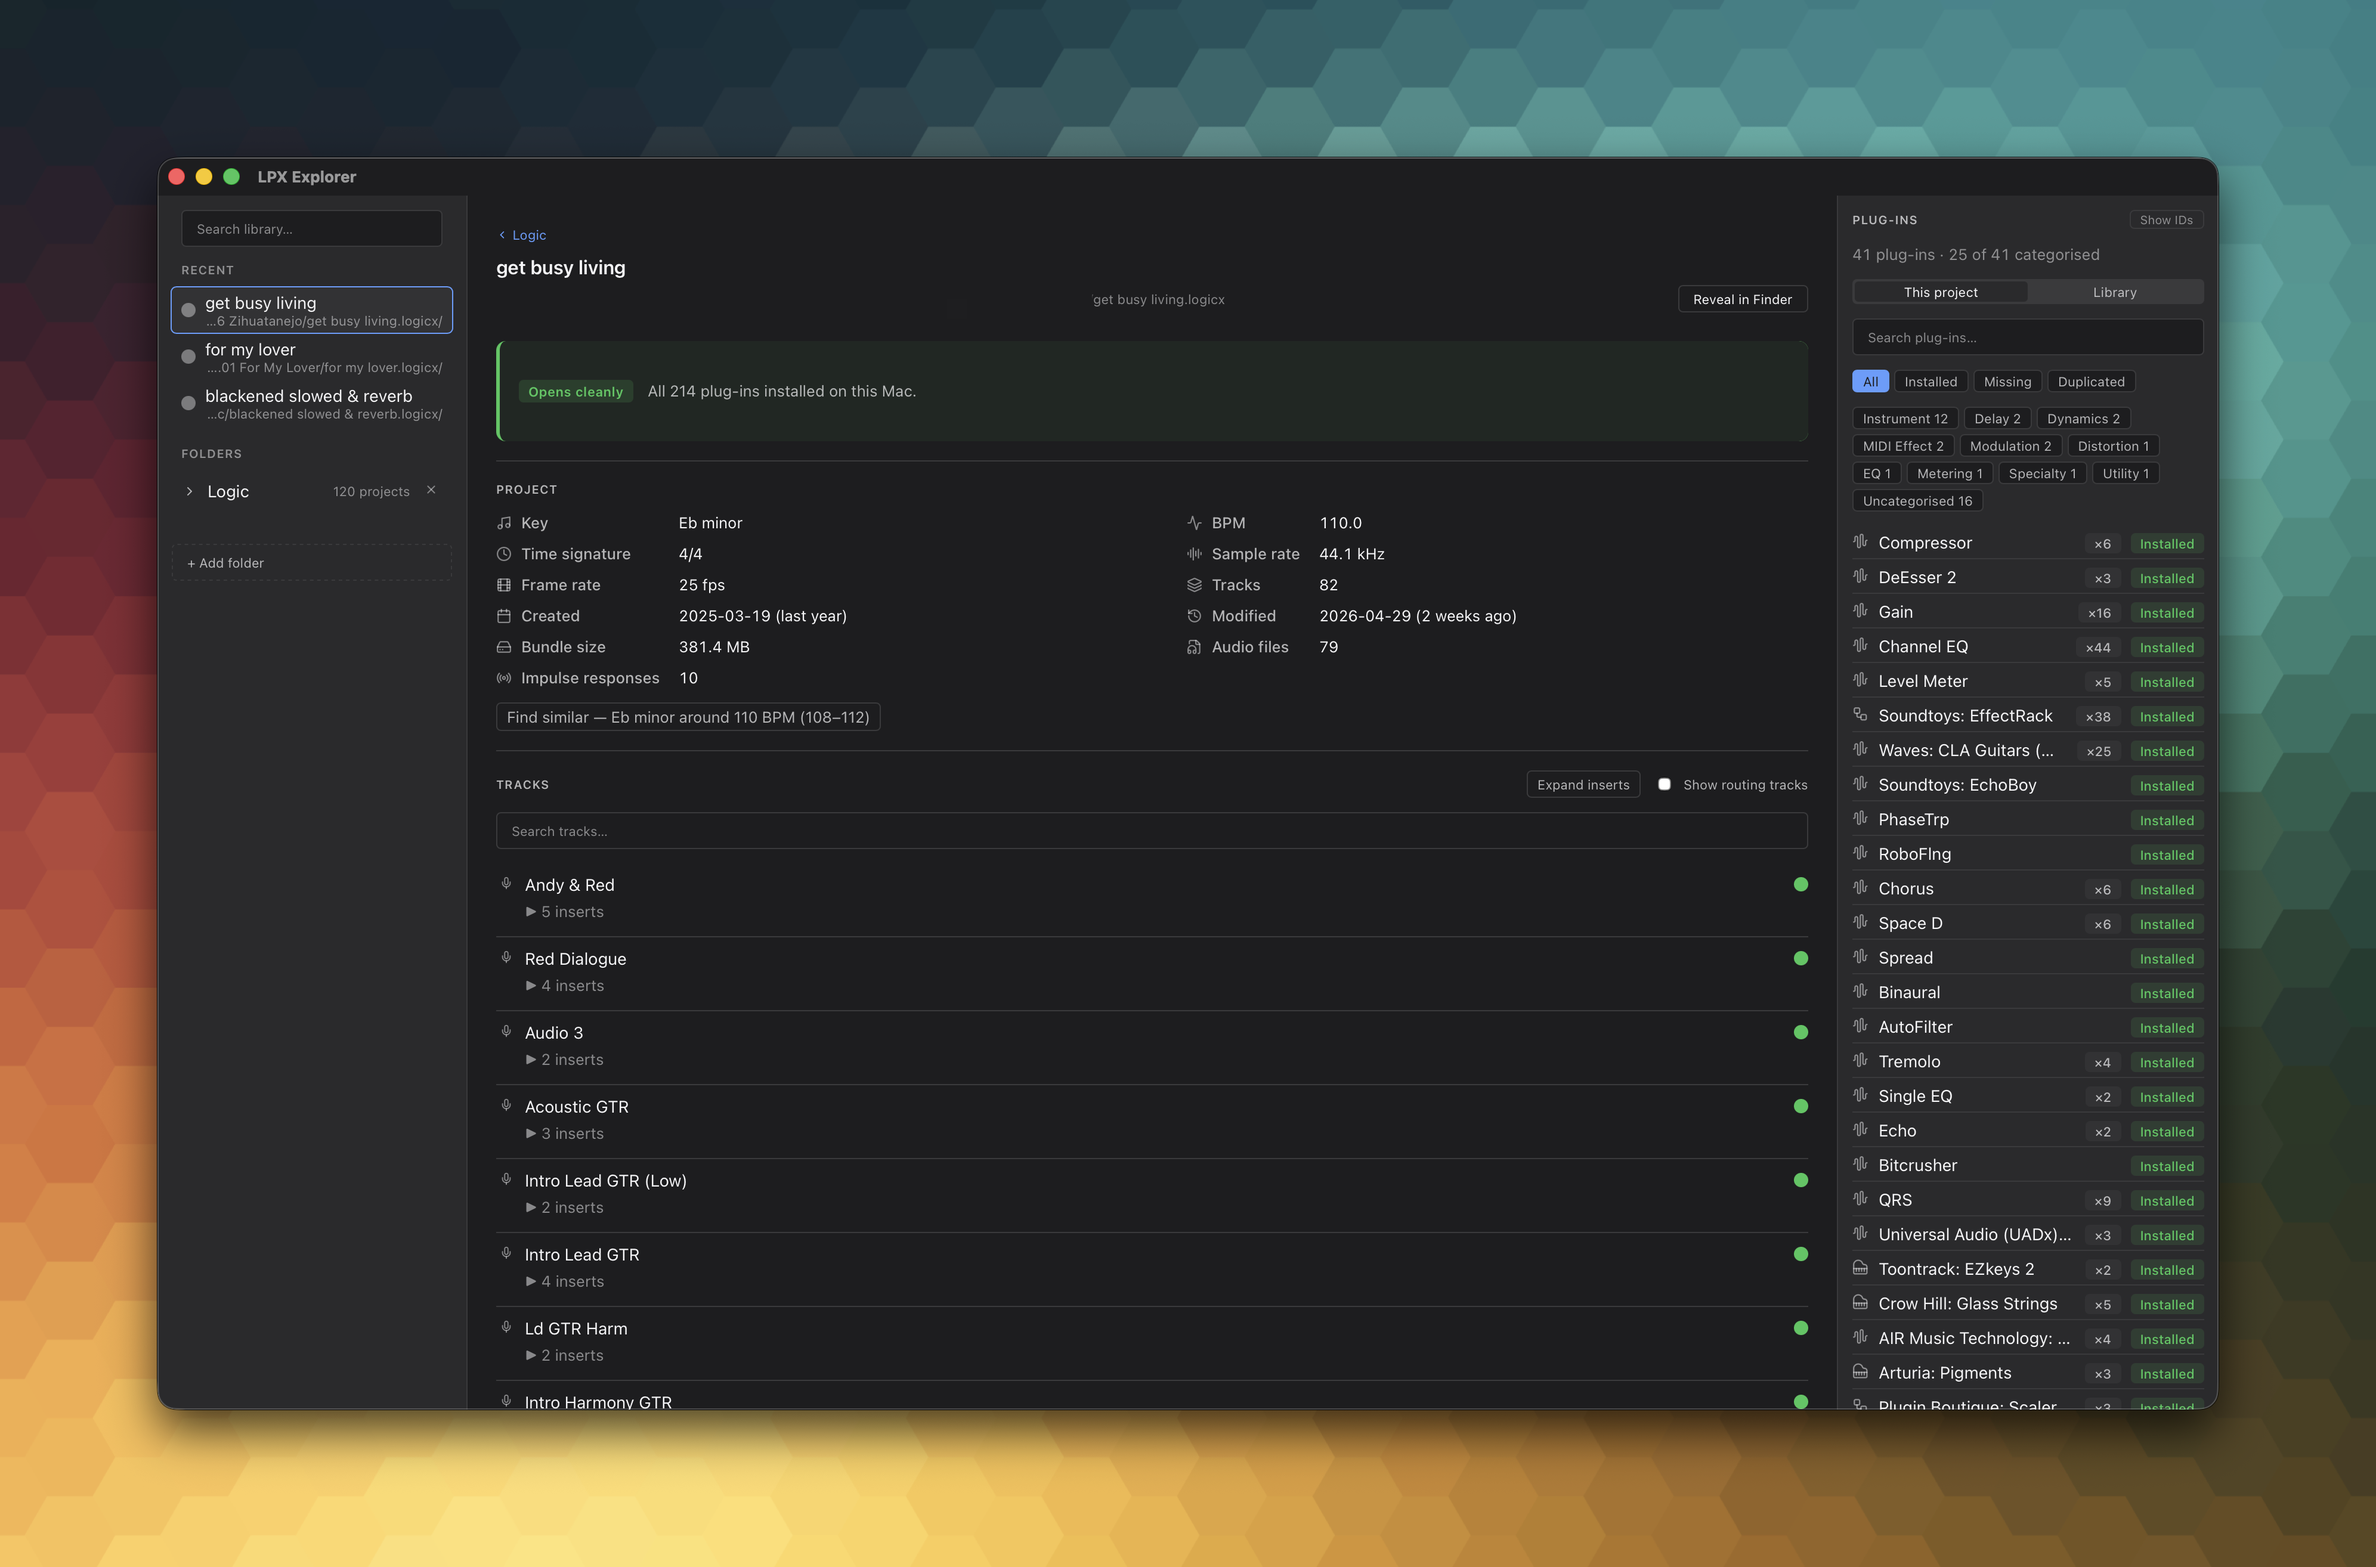
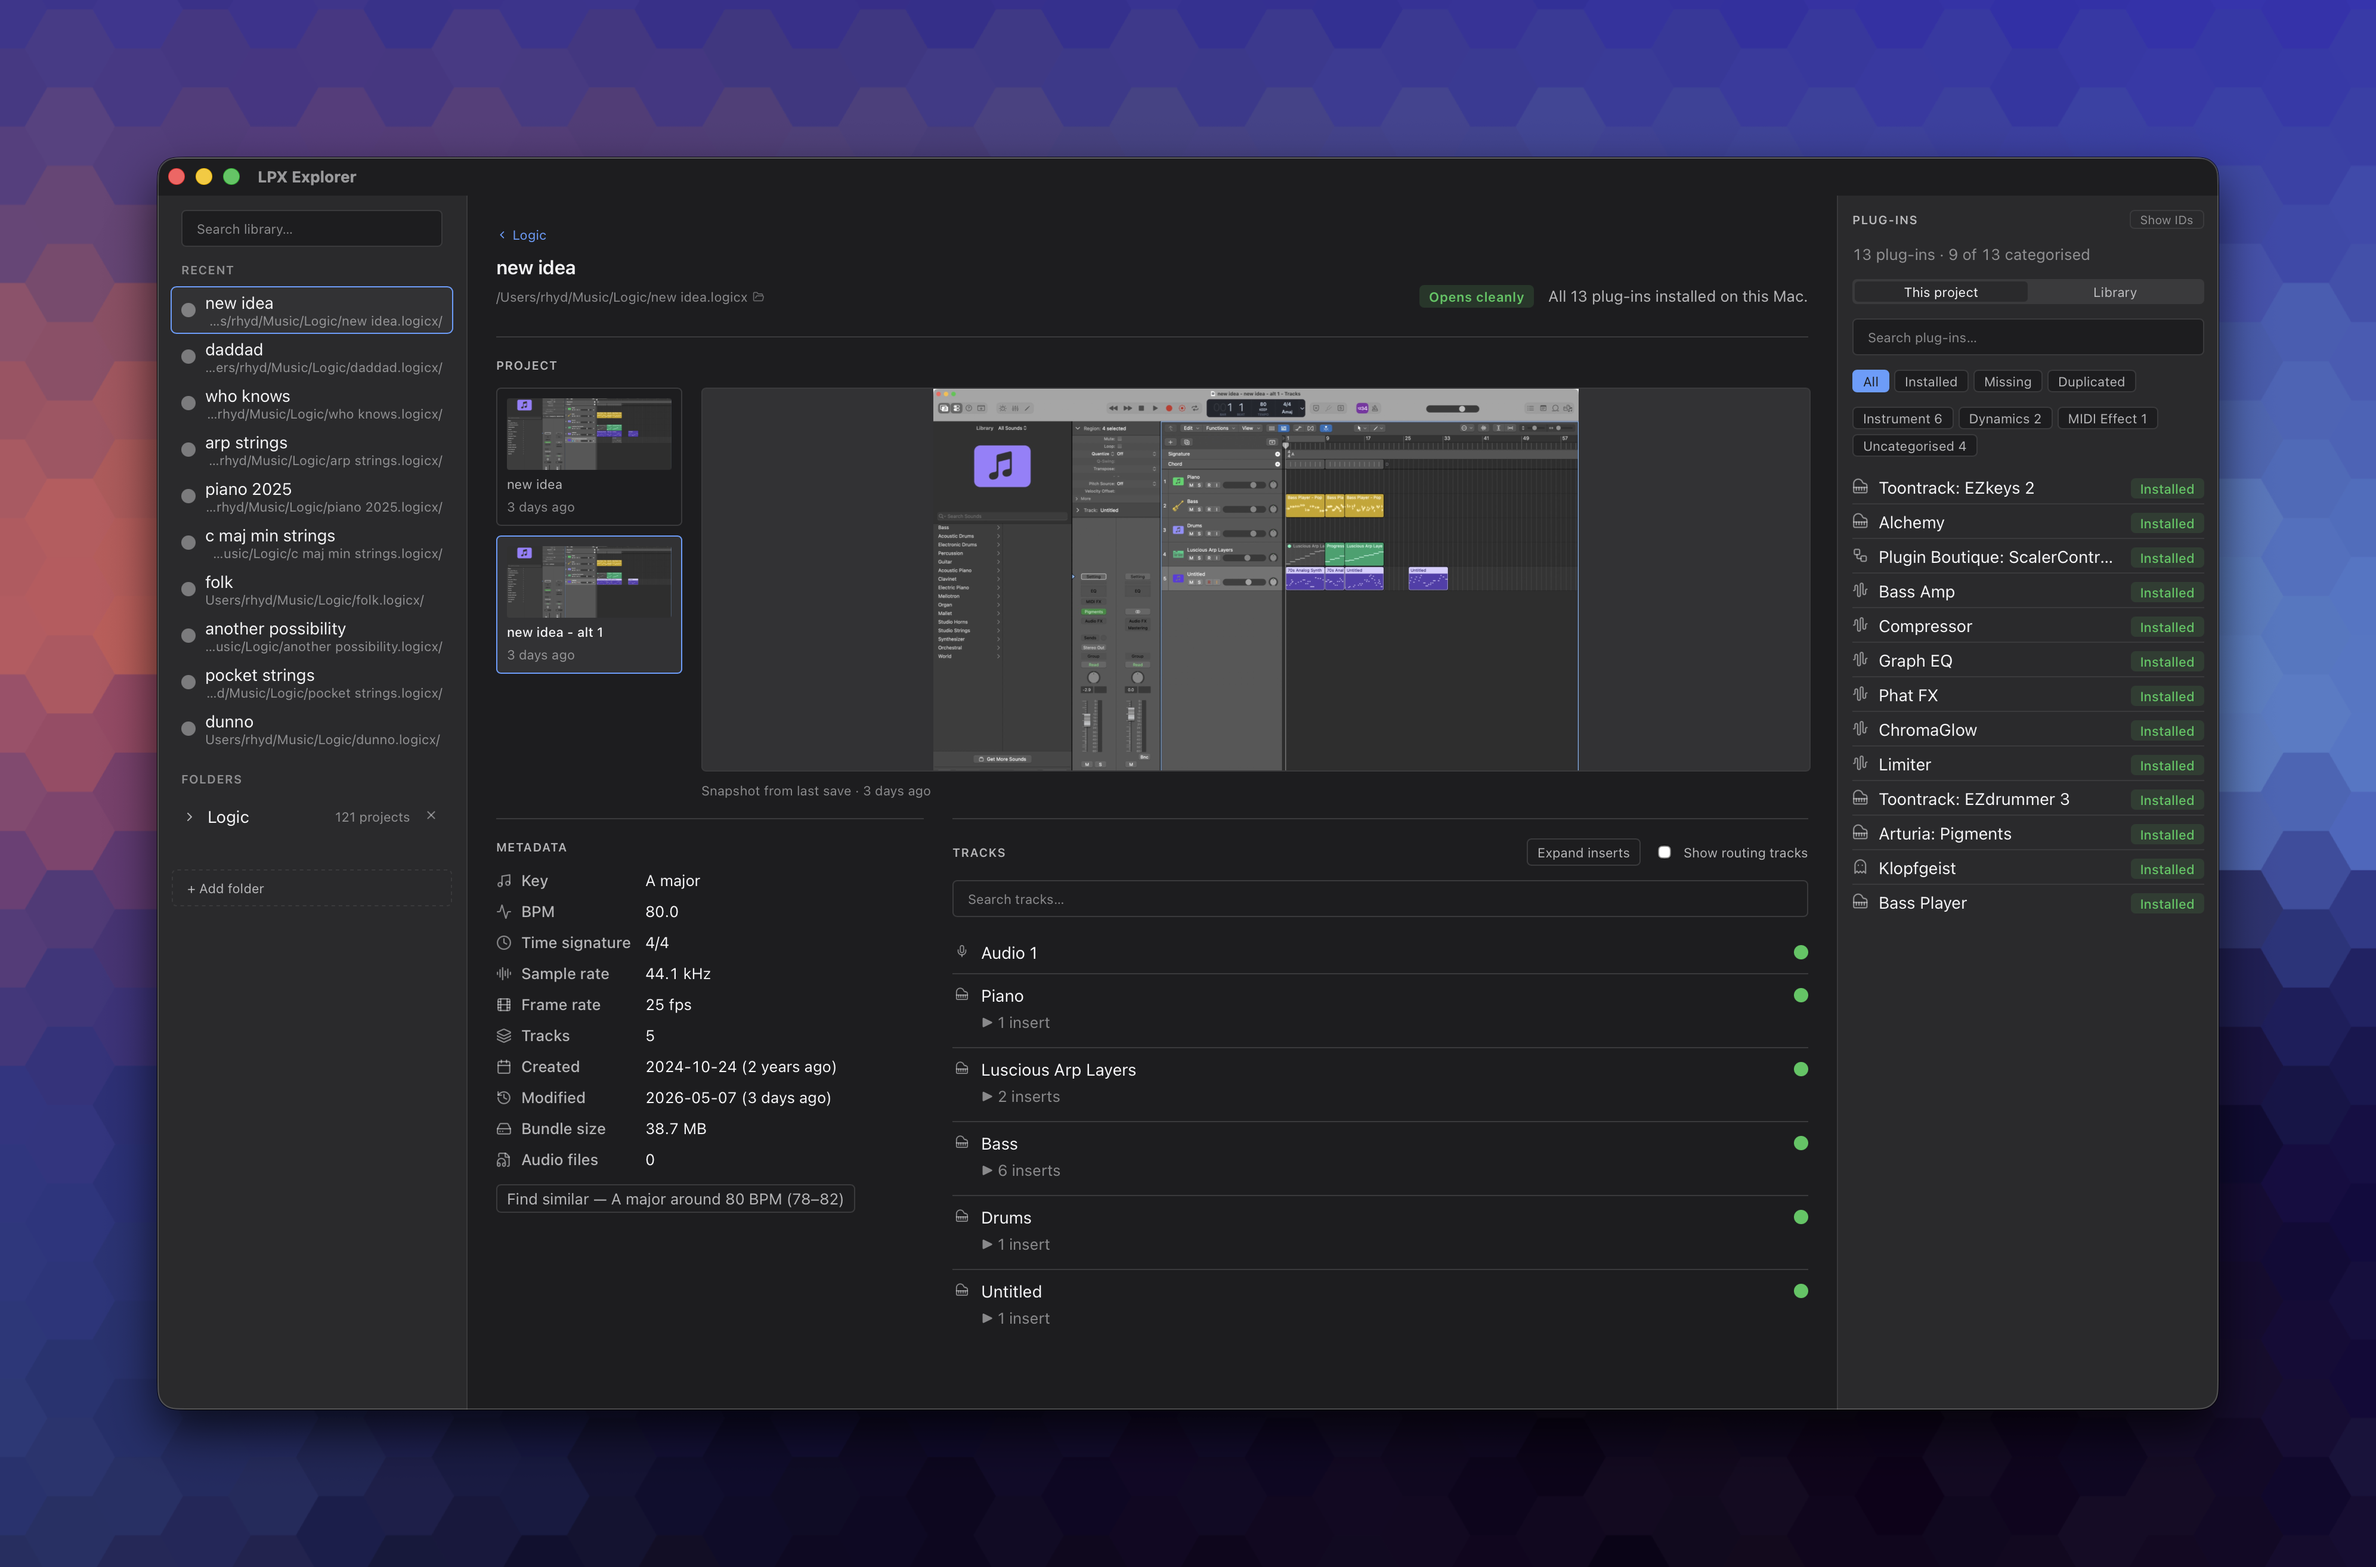
docs: updated README

diff --git a/README.md b/README.md
@@ -1,49 +1,72 @@
 # lpx-explorer
 
-Read-only macOS app to inspect Logic Pro `.logicx` project bundles. See & search plugin, track and metadata from a macOS desktop app (Tauri 2 + React 19 + TypeScript + Rust).
+Read-only macOS app for inspecting Logic Pro `.logicx` project bundles. See and search plug-ins, tracks, and project metadata without launching Logic. Built with Tauri 2 + React 19 + TypeScript + Rust.
 
-The headline question: **"Will this project open cleanly on this Mac?"** LPX Explorer answers it by parsing the undocumented binary `ProjectData` file inside a `.logicx` bundle and cross-referencing the Audio Unit plug-ins it references against the AUs installed on your machine — without launching Logic and without touching a byte of the bundle.
+## Why this exists
 
-![](./screenshot.png)
+I have hundreds of Logic Pro projects on disk, many years old, with titles like "new idea", "new idea 2", and "3 tracks copy". Opening each one in Logic to remember what's inside takes an age — Logic is slow to launch, slower to load a project, and I can't easily browse across them. Another recurring problem: not every plug-in I've used is still installed, so some projects open with missing instruments and I don't find out until I'm already there.
+
+LPX Explorer answers two questions: **what's in this project?** and **will it open cleanly on this Mac?** by parsing the undocumented files (e.g. `ProjectData`) inside a `.logicx` bundle and cross-referencing the Audio Unit plug-ins within against the AUs installed on your machine, without launching Logic and without touching a byte of the bundle.
+
+![Screenshot of the LPX Explorer inspector view: compatibility verdict band, project metadata, track list with insert pills, and plug-in rail with install-status badges.](./screenshot.png)
+
+## Read-only by construction
+
+`.logicx` projects are irreplaceable user work. LPX Explorer is structurally incapable of writing to one:
+
+- The Rust parser crate has a bytes-only API — `find_aus(&[u8])`, `find_tracks(&[u8])`, etc. It cannot open a file.
+- The Tauri command layer reads bytes once and routes them through the parser.
+- An integration test (`src-tauri/tests/readonly_invariant.rs`) snapshots SHA-256 + mtime around every parse path and asserts no byte changed.
+- CI fails if the invariant fails. It is gated, not aspirational.
+
+However...
 
 > [!WARNING]
-> **Use at your own risk.** `LPX Explorer` parses the undocumented `.logicx` binary format that Apple may change at any time. It is strictly read-only — there is a SHA-256 invariant test that fails the build if any byte of a project is ever modified — but you are still pointing it at irreplaceable creative work. Always keep backups. The author accepts no liability for project corruption, data loss, or anything else that might go wrong.
+> ⚠ **Use at your own risk.** LPX Explorer parses an undocumented binary format that Apple may change at any time. The read-only invariant covers the parser, but you are still pointing it at irreplaceable creative work. Always keep backups. The author accepts no liability for project corruption, data loss, or anything else that might go wrong.
 
 ## What it does
 
-**Pick a project, see the verdict.**
+### Pick a project, see the details
 
 - Compatibility verdict band — `clean` / `warnings` / `will-not-open`, with a CTA that jumps to the first missing plug-in.
+- Screenshot of each alternative (if available)
 - Project metadata — key, BPM, time signature, sample rate, dates, bundle size.
 - Track list — kind (audio / instrument / folder / summing-stack), user-renamed names recovered from region records and the track registry, with expandable insert chains rendered as colour-coded pills (instrument / FX / MIDI).
-- Plug-in rail — every AU referenced by the project, grouped by category, with install-status badges resolved against the local `auval -l` registry. Per-row actions for missing plug-ins (search, copy fingerprint, etc.) and an opt-in mono fingerprint sub-line for triage.
+- Plug-in rail — every AU referenced by the project, grouped by category, with install-status badges resolved against the local Audio Unit registry. Per-row actions for missing plug-ins (search, copy fingerprint) and an opt-in mono fingerprint sub-line for triage.
 
-**Pick a folder, see the library.**
+### Pick a folder, see the library
 
-- Recursive `.logicx` scan with idle-aware progress and per-project parse cache.
+- Recursive scan of each `.logicx` bundle with idle-aware progress and per-project parse cache.
 - Tile grid — name, musical line (key + BPM), counts, size; click to open.
 - Folder rail with search; recent projects and recent folders surface in the native File menu.
 - Plug-in rail flips to library scope — `47 plug-ins · 3 missing across 12 projects` — and each row expands to the contributing project paths.
 
-**System integration.**
+Tested against roughly **[150 projects across ~20 GB]** without trouble.
 
-- Native macOS menu (File / Edit / View / Help) with `Cmd-O` open project, `Cmd-Shift-O` open folder, theme switcher (System / Light / Dark), Open Recent submenus.
-- Drag-and-drop a `.logicx` or a folder onto the window.
-- `Cmd-+` / `Cmd-–` / `Cmd-0` scales the entire UI proportionally.
+### System integration
 
-## Read-only contract
+- Native macOS menu (File / Edit / View / Help) with `⌘O` open project, `⌘⇧O` open folder, theme switcher (System / Light / Dark), Open Recent submenus.
+- Drag and drop a `.logicx` bundle or a folder onto the window.
+- `⌘+` / `⌘-` / `⌘0` scales the UI.
 
-`.logicx` files are irreplaceable user work. The parser is structurally incapable of writing to one:
+## Relationship to `lpx-toolkit`
 
-- The Rust crate's API is bytes-only — `find_aus(&[u8])`, `find_tracks(&[u8])`, etc. — it cannot open a file.
-- The Tauri command layer reads bytes once and routes them through the parser.
-- An integration test (`src-tauri/tests/readonly_invariant.rs`) snapshots SHA-256 + mtime around every parse path and asserts no byte changed.
+There are two projects in this family:
 
-This is non-negotiable and gated in CI.
+- **[`lpx-toolkit`](https://github.com/rhydlewis/lpx-toolkit)** — the original Python CLI. Built first as a proof-of-concept to understand the `.logicx` binary structure, a working command-line tool.
+- **`lpx-explorer`** (this repo) — the macOS desktop app. Rust parser, native UI, idle-aware library scans.
+
+The Rust parser crate (`lpx-parser`) is the long-term home for `.logicx` format knowledge. Future PyO3 bindings will let the Python CLI consume it directly so the format knowledge has one home.
+
+## Plug-in support
+
+LPX Explorer checks Audio Unit (AU) plug-ins only. The registry is populated by shelling out to `auval -l` once at startup and cached for the session. A manual rescan is available for when you've just installed new plug-ins without restarting the app.
 
 ## Install
 
-No notarized build yet — build from source:
+<!-- TODO: update with download link / DMG instructions for the latest notarized release -->
+
+## Build
 
 ```sh
 git clone https://github.com/rhydlewis/lpx-explorer
@@ -64,60 +87,39 @@ cargo test --manifest-path src-tauri/Cargo.toml --workspace
                            # parser crate + Tauri command tests + read-only invariant
 ```
 
-The pre-commit hook runs typecheck + lint-staged + Vitest. Bypass with `--no-verify` for emergencies only.
+The pre-commit hook runs typecheck + lint-staged + Vitest. Bypass with `--no-verify`.
 
 ## Architecture
 
 - `src-tauri/crates/lpx-parser/` — native Rust crate, single source of truth for `.logicx` format knowledge. Submodules: `metadata` (plist), `regions` (region records → user-renamed track names), `tracks` (track records + AU assignment), `tracks_registry` (registry record names), `auval` (AU registry parsing), `apple_stock` / `apple_drummer` (vendor allow-lists). Bytes-only API.
 - `src-tauri/src/commands.rs` — Tauri command surface (`parse_project`, `project_data_stat`, `is_dir`, `home_dir`, `log_event`).
 - `src-tauri/src/library.rs` — recursive folder scan (`scan_folder`).
-- `src-tauri/src/auval.rs` — `auval -l` registry loader + on-demand rescan.
+- `src-tauri/src/auval.rs` — `auval -l` registry loader with on-demand rescan.
 - `src-tauri/src/lib.rs` — native menu, recents, theme handoff.
 - `src/components/` — React surfaces: `Inspector/` (project header, compatibility verdict, project info, track list, plug-in rail), `Library/` (home grid, tile, folder rail, search).
 - `src/store/` — Zustand stores (project, library, library summaries, AU registry, UI / theme / zoom).
 - `src/lib/` — IPC wrappers, AU categorisation, parse cache, persistence (via `tauri-plugin-store`), drop routing, idle detector, scan scheduler.
 - `docs/decisions.md` — architecture decisions log (append-only).
 
-The `&[u8]` parser API is the safety boundary. Future PyO3 bindings will let the Python CLI consume this crate directly so the format knowledge has one home.
-
-## What's missing relative to the Python CLI
-
-The Python tool at [`lpx-toolkit`](https://github.com/rhydlewis/lpx-toolkit) ships a few surfaces this app doesn't (yet):
-
-- **HTML self-contained dashboard** (`--html`) — single-file portable report.
-- **Cross-project rollup** as a dedicated view (`--rollup`) — partially covered by the plug-in rail's library scope, but no standalone export.
-- **Reveal-in-Finder** on missing plug-ins.
-- **Codesign / notarization integration** for plug-in bundles.
-- **Preset count + plug-in bundle scanning** beyond the AU registry.
-
-Distribution gaps:
-
-- **Notarized release build** — no `.dmg` on the Releases page yet.
-- **Auto-updater** (Sparkle / `tauri-plugin-updater`).
+The `&[u8]` parser API is the safety boundary.
 
 ## Known quirks (not bugs)
 
-- Duplicate fingerprints from undo history are *real* — Logic keeps prior plug-in references in `ProjectData` even after you swap a plug-in. The Python CLI offers an opt-in dedupe filter; this app currently shows them as-is.
-- Phantom plug-ins from other Alternatives in the bundle are similarly real. Open the project in Logic to see what the active alternative actually loads.
-
-## Issue tracking
-
-Beads (`bd`). Run `bd ready` to see what's open.
+- **Duplicate fingerprints from undo history are real.** Logic keeps prior plug-in references in `ProjectData` even after you swap a plug-in. The Python CLI offers an opt-in dedupe filter; this app currently shows them as-is.
+- **Phantom plug-ins from other Alternatives in the bundle are similarly real.** Open the project in Logic to see what the active alternative actually loads.
 
 ## Source-of-truth references
 
 - [`lpx-toolkit/lpx_inspect.py`](https://github.com/rhydlewis/lpx-toolkit) — empirically-derived `.logicx` parser. Every offset and signature whitelist was reverse-engineered against real Logic projects.
 - `src-tauri/crates/lpx-parser/` — Rust port + extension.
-- `BRIEF.md` — original walking-skeleton scope.
-- `docs/decisions.md` — architecture choices and rationale.
+- [`BRIEF.md`](./BRIEF.md) — original walking-skeleton scope.
+- [`docs/decisions.md`](./docs/decisions.md) — architecture choices and rationale.
 
 ## Support
 
 If LPX Explorer has saved you from opening sketchy old projects in Logic, tips are very welcome:
 
 [☕ Buy me a coffee](https://buymeacoffee.com/rhyd)
-
-Same link is wired into the Help menu inside the app.
 
 ## License
 
